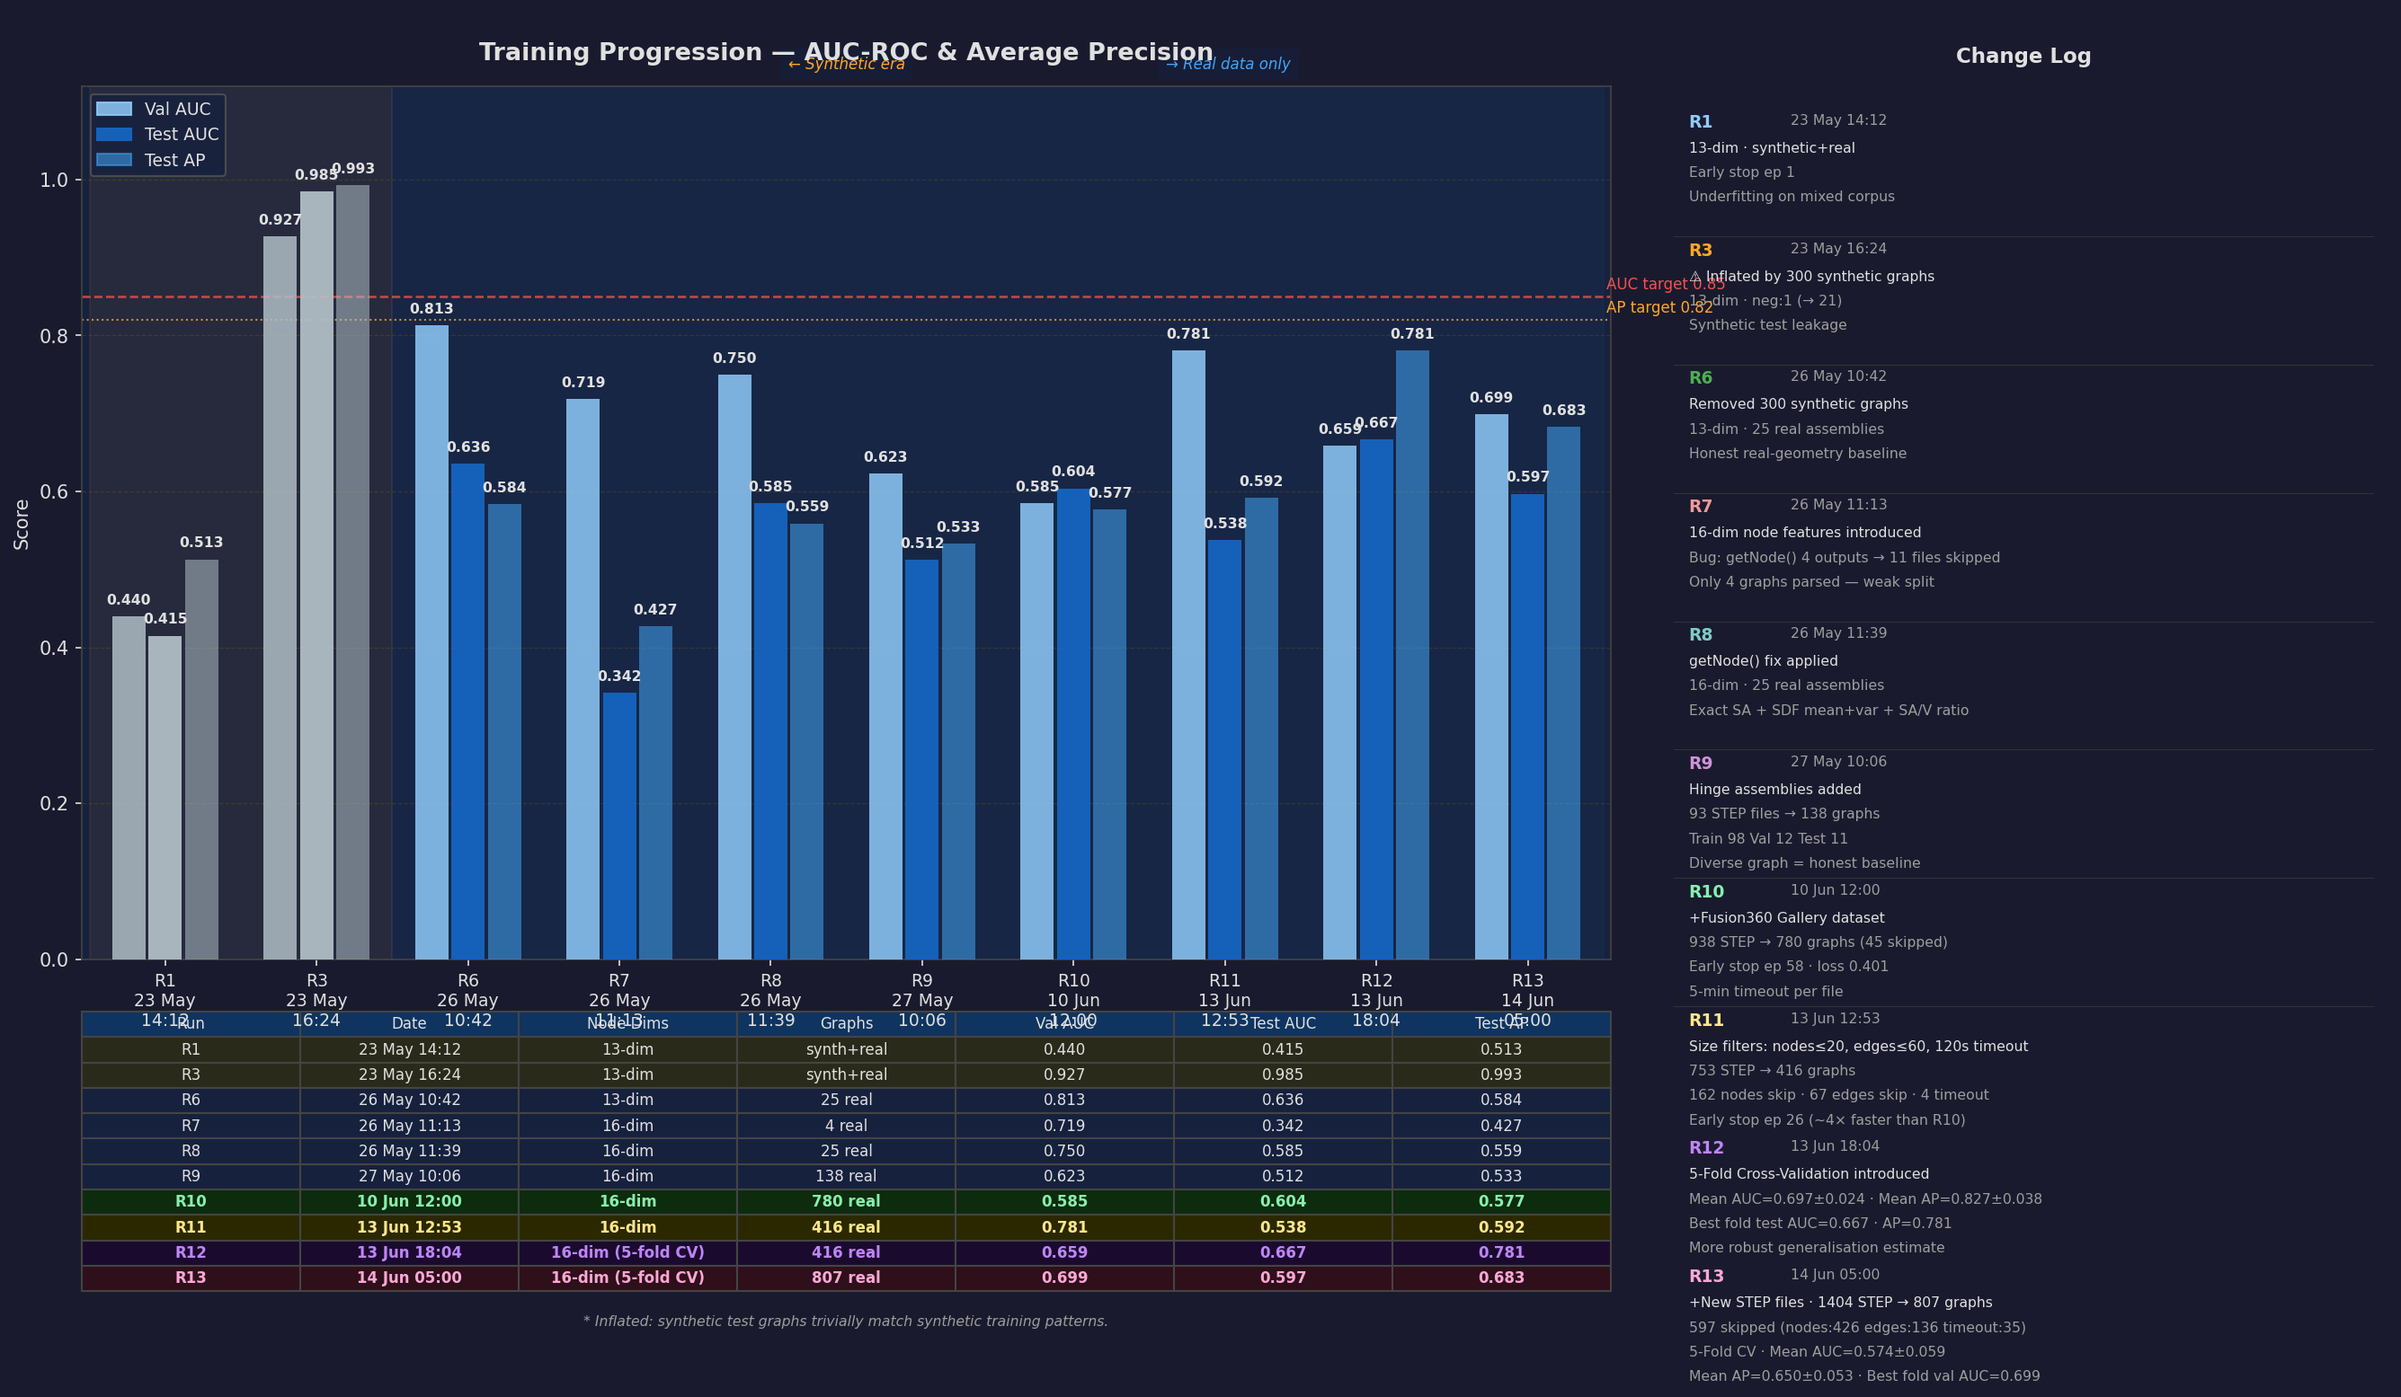
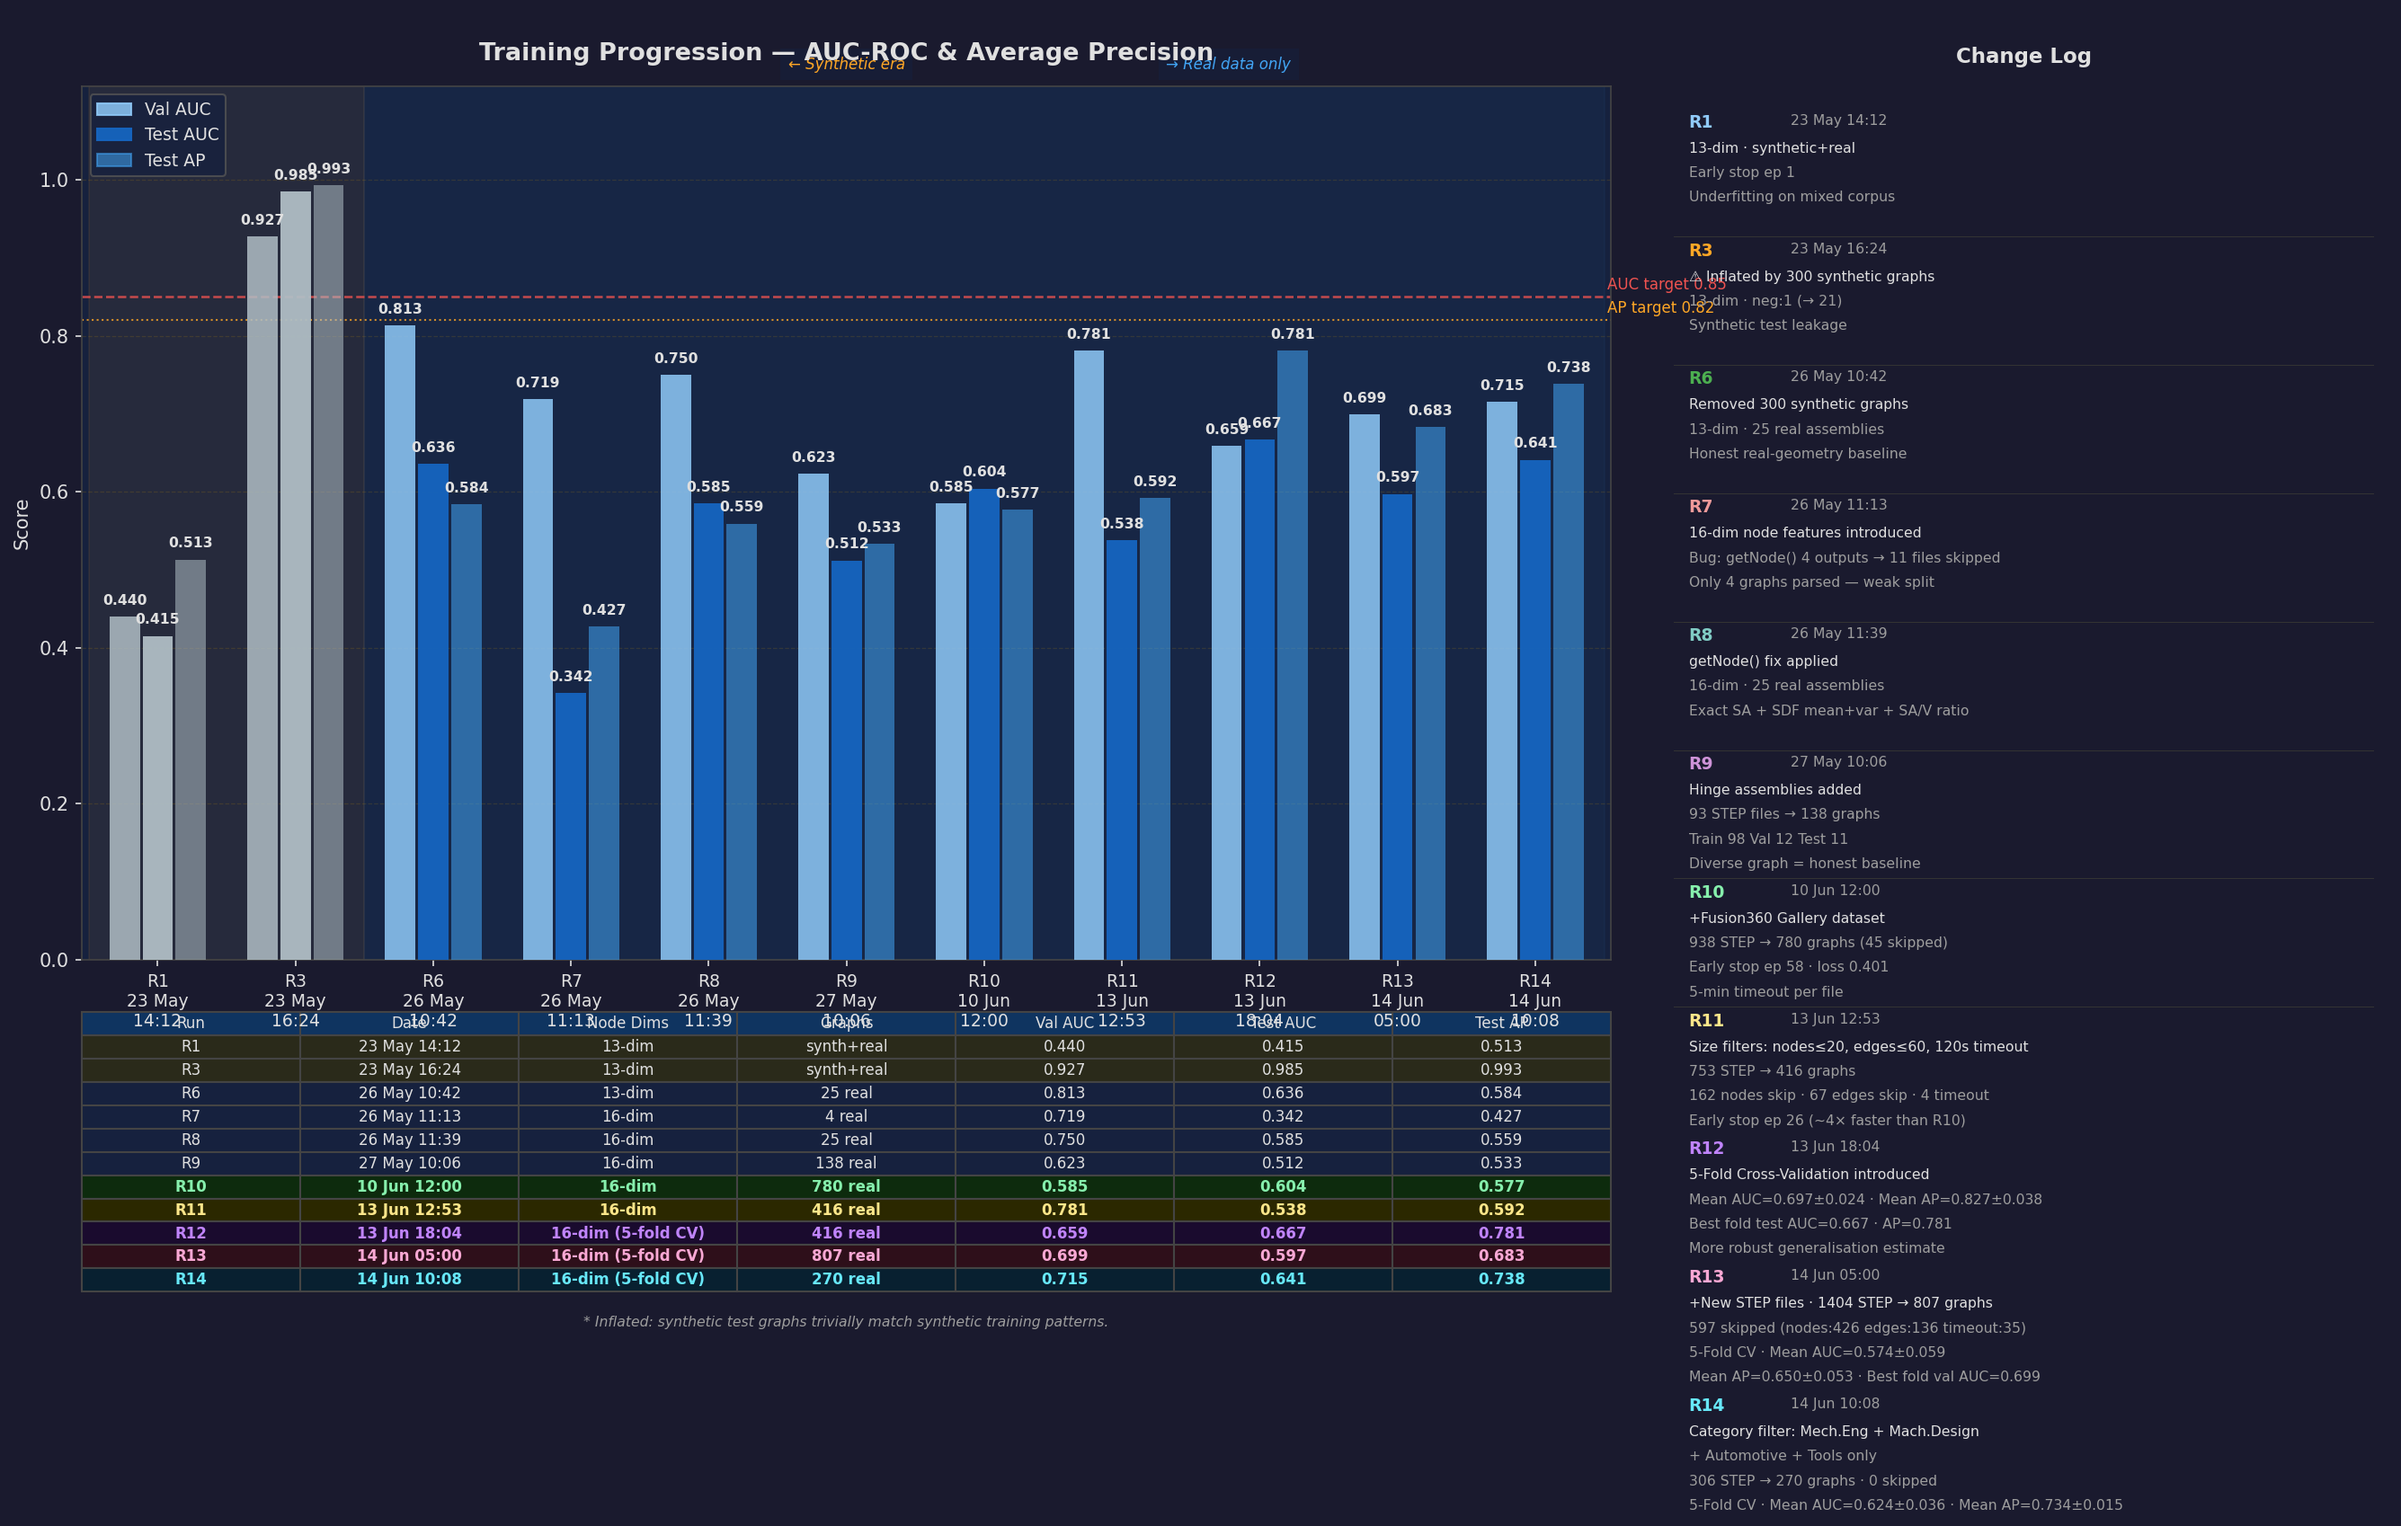
R14: category-filtered training + per-category config option
Training (R14):
- 306 STEP → 270 graphs (0 skipped) from Mechanical Engineering,
  Machine design, Automotive, Tools categories only
- 5-fold CV: mean AUC 0.624±0.036, mean AP 0.734±0.015
- Best fold val AUC 0.715 → assembly_gnn_20260614_100837_auc07152.pt

Code changes:
- dataset.py: AssemblyDataset gains optional `categories` param; filters
  step_files to paths containing any listed category folder name
- train.py: passes cfg["data"].get("categories") to AssemblyDataset
- config.yaml: categories list [Mechanical Engineering, Machine design,
  Automotive, Tools] under data section

Docs:
- README: R14 row in training table; R14 CV detail table with 0-skip note;
  R14 key observation; updated trained model filename
- docs/generate_training_history.py: R14 entry (cyan), log_colors, table
  highlight (#082030 / #67e8f9)
- docs/training_history.png: regenerated with R14 cyan bar

diff --git a/docs/generate_training_history.py b/docs/generate_training_history.py
@@ -41,6 +41,9 @@ runs = [
     dict(id="R13", date="14 Jun\n05:00", graphs="807 real",
          note="+New STEP files · 1404 STEP → 807 graphs\n597 skipped (nodes:426 edges:136 timeout:35)\n5-Fold CV · Mean AUC=0.574±0.059\nMean AP=0.650±0.053 · Best fold val AUC=0.699",
          val_auc=0.699, test_auc=0.597, test_ap=0.683, synthetic=False),
+    dict(id="R14", date="14 Jun\n10:08", graphs="270 real",
+         note="Category filter: Mech.Eng + Mach.Design\n+ Automotive + Tools only\n306 STEP → 270 graphs · 0 skipped\n5-Fold CV · Mean AUC=0.624±0.036 · Mean AP=0.734±0.015",
+         val_auc=0.715, test_auc=0.641, test_ap=0.738, synthetic=False),
 ]
 
 n   = len(runs)
@@ -126,7 +129,7 @@ ax.legend(handles=legend_patches, loc="upper left", facecolor=PANEL,
 col_labels = ["Run", "Date", "Node Dims", "Graphs", "Val AUC", "Test AUC", "Test AP"]
 table_data = [
     [r["id"], r["date"].replace("\n", " "),
-     "13-dim" if r["id"] in ("R1","R3","R6") else "16-dim (5-fold CV)" if r["id"] in ("R12","R13") else "16-dim",
+     "13-dim" if r["id"] in ("R1","R3","R6") else "16-dim (5-fold CV)" if r["id"] in ("R12","R13","R14") else "16-dim",
      r["graphs"],
      f"{r['val_auc']:.3f}", f"{r['test_auc']:.3f}", f"{r['test_ap']:.3f}"]
     for r in runs
@@ -154,6 +157,9 @@ for (row, col), cell in tbl.get_celld().items():
     if row > 0 and runs[row-1]["id"] == "R13":
         cell.set_facecolor("#2e0f1a")
         cell.set_text_props(color="#f9a8d4", fontweight="bold")
+    if row > 0 and runs[row-1]["id"] == "R14":
+        cell.set_facecolor("#082030")
+        cell.set_text_props(color="#67e8f9", fontweight="bold")
 
 ax.text(0.5, -0.42, "* Inflated: synthetic test graphs trivially match synthetic training patterns.",
         transform=ax.transAxes, ha="center", color=SUBTEXT, fontsize=7.5, style="italic")
@@ -165,7 +171,7 @@ ax_log.text(0.5, 0.97, "Change Log", transform=ax_log.transAxes,
 log_colors = {
     "R1": "#90caf9", "R3": "#ffa726", "R6": "#4caf50",
     "R7": "#ef9a9a", "R8": "#80cbc4", "R9": "#ce93d8",
-    "R10": "#86efac", "R11": "#fde68a", "R12": "#c084fc", "R13": "#f9a8d4",
+    "R10": "#86efac", "R11": "#fde68a", "R12": "#c084fc", "R13": "#f9a8d4", "R14": "#67e8f9",
 }
 y_pos = 0.91
 for r in runs:

diff --git a/back_end/dataset.py b/back_end/dataset.py
@@ -491,10 +491,12 @@ class AssemblyDataset(InMemoryDataset):
         source_dir: str,
         processed_dir: str,
         force_reload: bool = False,
+        categories: Optional[List[str]] = None,
         transform=None,
         pre_transform=None,
     ):
         self.source_dir = Path(source_dir)
+        self.categories = categories  # if set, only scan files under these subdirs
         if force_reload:
             for fname in ["data.pt", "processed/data.pt"]:
                 proc = Path(processed_dir) / fname
@@ -523,6 +525,15 @@ class AssemblyDataset(InMemoryDataset):
             p for p in self.source_dir.rglob("*")
             if p.suffix in step_exts and not _UUID_RE.match(p.stem)
         ]
+        # Filter to specific category subdirectories when requested
+        if self.categories:
+            _cats_set = set(self.categories)
+            step_files = [
+                p for p in step_files
+                if any(part in _cats_set for part in p.parts)
+            ]
+            print(f"  Category filter: {self.categories}")
+            print(f"  {len(step_files)} STEP files after category filter")
 
         graphs:       List[Data] = []
         source_paths: List[str]  = []

diff --git a/back_end/train.py b/back_end/train.py
@@ -67,6 +67,7 @@ def main():
         source_dir    = cfg["data"]["source_dir"],
         processed_dir = cfg["data"]["processed_dir"],
         force_reload  = args.force_reload,
+        categories    = cfg["data"].get("categories") or None,
     )
     print(f"      {len(dataset)} graphs loaded.")
 

diff --git a/README.md b/README.md
@@ -549,7 +549,8 @@ python skills_agent.py
 After training completes a timestamped file is saved to `trained_models/`:
 
 ```
-trained_models/assembly_gnn_20260614_050047_auc06985.pt   ← current best (R13 — 5-fold CV, 807 graphs, best fold val AUC 0.699, mean AUC 0.574)
+trained_models/assembly_gnn_20260614_100837_auc07152.pt   ← current best (R14 — category filter, 270 graphs, best fold val AUC 0.715, mean AUC 0.624)
+trained_models/assembly_gnn_20260614_050047_auc06985.pt   ← R13 (5-fold CV, 807 graphs, best fold val AUC 0.699, mean AUC 0.574)
 trained_models/assembly_gnn_20260613_180449_auc06591.pt   ← R12 (5-fold CV, 416 graphs, best fold val AUC 0.659, mean AUC 0.697)
 trained_models/assembly_gnn_20260613_125353_auc07809.pt   ← R11 (16-dim, 416 graphs, size-filtered, val AUC 0.781)
 trained_models/assembly_gnn_20260610_120044_auc05943.pt   ← R10 (16-dim, 780 graphs, Fusion360 full, test AUC 0.604)
@@ -987,7 +988,7 @@ All previous output — red ⚠ body highlights, orange ❓ cross markers, AIDA 
 
 ![Training Progression — AUC-ROC & Average Precision](docs/training_history.png)
 
-Ten training runs are shown, split into two eras. Each bar group shows Val AUC (light), Test AUC (solid), and Test AP (translucent) for that run. Dashed red/orange lines are the Phase 1 targets (AUC 0.85, AP 0.82). R12–R13 report best-fold metrics from 5-fold CV.
+Eleven training runs are shown, split into two eras. Each bar group shows Val AUC (light), Test AUC (solid), and Test AP (translucent) for that run. Dashed red/orange lines are the Phase 1 targets (AUC 0.85, AP 0.82). R12–R14 report best-fold metrics from 5-fold CV.
 
 | Run | Date | Change | Graphs | Val AUC | Test AUC | Test AP |
 |---|---|---|---|---|---|---|
@@ -1000,7 +1001,8 @@ Ten training runs are shown, split into two eras. Each bar group shows Val AUC (
 | R10 | 10 Jun 12:00 | 16-dim · +Fusion360 Gallery · 938 STEP → 780 graphs · early stop ep 58 | 780 | 0.585 | 0.604 | 0.577 |
 | R11 | 13 Jun 12:53 | 16-dim · size filters (nodes≤20, edges≤60, timeout 120s) · 753 STEP → 416 graphs · early stop ep 26 | 416 | 0.781 | 0.538 | 0.592 |
 | R12 | 13 Jun 18:04 | 16-dim · 5-fold CV · 416 graphs · Mean AUC 0.697±0.024 · Mean AP 0.827±0.038 | 416 | 0.659 | 0.667 | 0.781 |
-| **R13** | **14 Jun 05:00** | **16-dim · 5-fold CV · +new STEP files · 1404 STEP → 807 graphs · Mean AUC 0.574±0.059** | **807** | **0.699** | **0.597** | **0.683** |
+| R13 | 14 Jun 05:00 | 16-dim · 5-fold CV · +new STEP files · 1404 STEP → 807 graphs · Mean AUC 0.574±0.059 | 807 | 0.699 | 0.597 | 0.683 |
+| **R14** | **14 Jun 10:08** | **16-dim · 5-fold CV · category filter (Mech.Eng + Mach.Design + Automotive + Tools) · 306 STEP → 270 graphs · 0 skipped · Mean AUC 0.624±0.036** | **270** | **0.715** | **0.641** | **0.738** |
 
 > \* R3 metrics artificially inflated: 300 synthetic test graphs trivially match the 300 synthetic training graphs — not a valid measure of real-geometry performance.
 
@@ -1028,6 +1030,23 @@ Ten training runs are shown, split into two eras. Each bar group shows Val AUC (
 
 > ★ best fold (val AUC 0.699) — used for `best_overall.pt`; best-fold test AUC 0.597, AP 0.683
 
+#### R14 — 5-Fold Cross-Validation Detail (Category-Filtered)
+
+**Categories:** Mechanical Engineering · Machine design · Automotive · Tools
+
+| Fold | Test AUC | Test AP | Early stop ep |
+|---|---|---|---|
+| 1 | 0.567 | 0.710 | 23 |
+| 2 ★ | 0.640 | 0.736 | 22 |
+| 3 | 0.618 | 0.731 | 41 |
+| 4 | 0.661 | 0.750 | 28 |
+| 5 | 0.637 | 0.742 | 26 |
+| **Mean** | **0.624 ± 0.036** | **0.734 ± 0.015** | |
+
+> ★ best fold (val AUC 0.715) — used for `best_overall.pt`; best-fold test AUC 0.641, AP 0.738
+
+**Notable:** 0 assemblies skipped — all 306 files from these 4 engineering-focused categories fell within the nodes ≤ 20 / edges ≤ 60 thresholds. This confirms these categories contain predominantly compact, well-structured assemblies suited to the model's current size constraints.
+
 #### R13 — Skip Summary (1,404 STEP files scanned)
 
 | Outcome | Count | Reason |
@@ -1046,7 +1065,8 @@ Ten training runs are shown, split into two eras. Each bar group shows Val AUC (
 - **R10 (+Fusion360):** Adding 643 Fusion360 assemblies raises the graph count to 780. Test AUC 0.604 / AP 0.577 — first clear benefit of large-scale real-world data. Early stopping at epoch 58
 - **R11 (size-filtered):** Applying node ≤ 20 / edge ≤ 60 / 120s filters produces 416 graphs (162 skipped for nodes, 67 for edges, 4 timeout). Val AUC hits 0.781 — highest so far — but test AUC drops to 0.538, revealing overfitting on the smaller, more homogeneous split. Training converges in only 26 epochs (~4× faster than R10)
 - **R12 (5-fold CV):** Cross-validation on 416 graphs gives mean AUC 0.697 ± 0.024 and mean AP 0.827 ± 0.038. AP already meets the Phase 1 target. Low std confirms model consistency across splits
-- **R13 (+new STEP files, 807 graphs):** Doubling the corpus to 807 graphs (1,404 STEP scanned, 597 filtered out) lowers mean AUC to 0.574 ± 0.059 and mean AP to 0.650 ± 0.053. Higher std reflects genuine diversity in the new assemblies — the model is generalising to harder geometry. Larger skip count (597 vs 233 in R11) is expected: more raw files means proportionally more oversized assemblies. Next step: widen size thresholds or add data augmentation to improve coverage
+- **R13 (+new STEP files, 807 graphs):** Doubling the corpus to 807 graphs (1,404 STEP scanned, 597 filtered out) lowers mean AUC to 0.574 ± 0.059 and mean AP to 0.650 ± 0.053. Higher std reflects genuine diversity in the new assemblies — the model is generalising to harder geometry. Larger skip count (597 vs 233 in R11) is expected: more raw files means proportionally more oversized assemblies
+- **R14 (category filter — 270 graphs):** Restricting to Mechanical Engineering, Machine design, Automotive, and Tools yields 270 highly curated graphs from 306 STEP files — 0 skipped, confirming these categories are structurally compact. Mean AUC 0.624 ± 0.036, mean AP 0.734 ± 0.015. The very low AP std (±0.015) shows the model is highly consistent across folds on domain-focused data. AUC improves over R13 despite a smaller corpus, validating the hypothesis that domain-focused training beats broad noisy data at this scale
 
 ---
 
